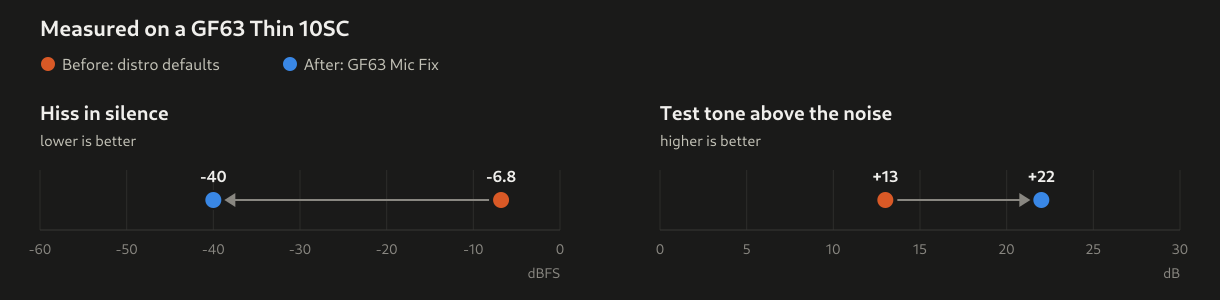
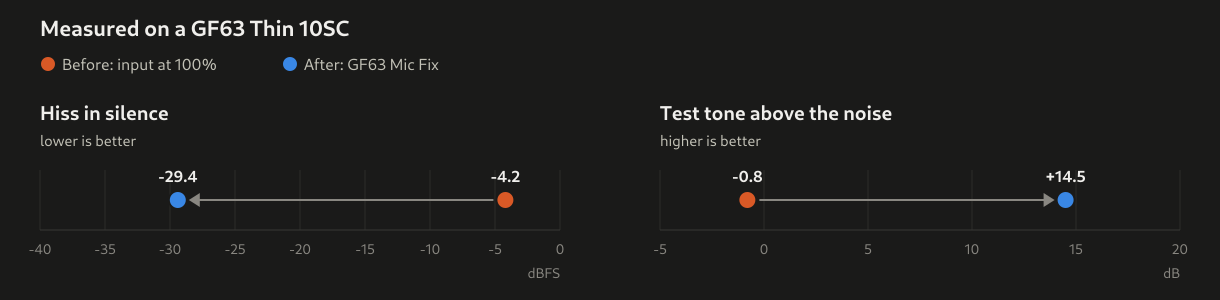
docs: gráfico com a medição real; repositório dnf tolera queda do Pages

diff --git a/scripts/readme_images.py b/scripts/readme_images.py
@@ -16,10 +16,10 @@ ROOT = Path(__file__).resolve().parents[1]
 OUT = ROOT / "docs/assets"
 FONT = "Cantarell, 'Noto Sans', 'DejaVu Sans', sans-serif"
 
-# GF63 Thin 10SC, 24/11/2026: default distro settings vs. GF63 Mic Fix.
+# GF63 Thin 10SC, 24/11/2026, RMS over 2 s: raw stereo input at 100% vs. GF63 Mic Fix.
 MEASURED = {
-    "noise": {"before": -6.8, "after": -40.0},  # level in silence, dBFS (lower is better)
-    "tone": {"before": 13.0, "after": 22.0},  # 1 kHz test tone above the noise, dB (higher is better)
+    "noise": {"before": -4.2, "after": -29.4},  # level in silence, dBFS (lower is better)
+    "tone": {"before": -0.8, "after": 14.5},  # 1 kHz test tone above the noise, dB (higher is better)
 }
 
 THEMES = {
@@ -149,15 +149,15 @@ def chart(t: dict) -> str:
 
     legend = (
         f'<circle cx="48" cy="64" r="7" fill="{t["before"]}"/>'
-        + text(62, 70, "Before: distro defaults", 16, t["ink2"])
+        + text(62, 70, "Before: input at 100%", 16, t["ink2"])
         + f'<circle cx="290" cy="64" r="7" fill="{t["after"]}"/>'
         + text(304, 70, "After: GF63 Mic Fix", 16, t["ink2"])
     )
     body = (
         text(40, 36, "Measured on a GF63 Thin 10SC", 22, t["ink"], 700)
         + legend
-        + panel(40, "Hiss in silence", "lower is better", "dBFS", -60, 0, 10, MEASURED["noise"])
-        + panel(660, "Test tone above the noise", "higher is better", "dB", 0, 30, 5, MEASURED["tone"])
+        + panel(40, "Hiss in silence", "lower is better", "dBFS", -40, 0, 5, MEASURED["noise"])
+        + panel(660, "Test tone above the noise", "higher is better", "dB", -5, 20, 5, MEASURED["tone"])
     )
     return svg(1220, 300, body, t["surface"])
 

diff --git a/README.pt-BR.md b/README.pt-BR.md
@@ -19,7 +19,7 @@ O **GF63 Mic Fix** é um app pequeno que corrige isso com um botão, e desfaz co
 
 <picture>
   <source media="(prefers-color-scheme: dark)" srcset="docs/assets/before-after-dark.png">
-  <img src="docs/assets/before-after.png" alt="Medido num GF63 Thin 10SC: o chiado em silêncio cai de -6,8 para -40 dBFS; um tom de teste passa de 13 para 22 dB acima do ruído" width="100%">
+  <img src="docs/assets/before-after.png" alt="Medido num GF63 Thin 10SC: com a entrada em 100%, o chiado em silêncio fica em -4,2 dBFS e um tom de teste some nele (-0,8 dB); com a correção, o chiado cai para -29,4 dBFS e o tom fica 14,5 dB acima dele" width="100%">
 </picture>
 
 ## Por que o microfone tem ruído

diff --git a/README.md b/README.md
@@ -19,7 +19,7 @@ while the same laptop works fine on Windows.
 
 <picture>
   <source media="(prefers-color-scheme: dark)" srcset="docs/assets/before-after-dark.png">
-  <img src="docs/assets/before-after.png" alt="Measured on a GF63 Thin 10SC: hiss in silence drops from -6.8 to -40 dBFS; a test tone goes from 13 to 22 dB above the noise" width="100%">
+  <img src="docs/assets/before-after.png" alt="Measured on a GF63 Thin 10SC: with the input at 100%, hiss in silence is -4.2 dBFS and a test tone is lost in it (-0.8 dB); with the fix, hiss drops to -29.4 dBFS and the tone stands 14.5 dB above it" width="100%">
 </picture>
 
 ## Why the microphone is noisy
